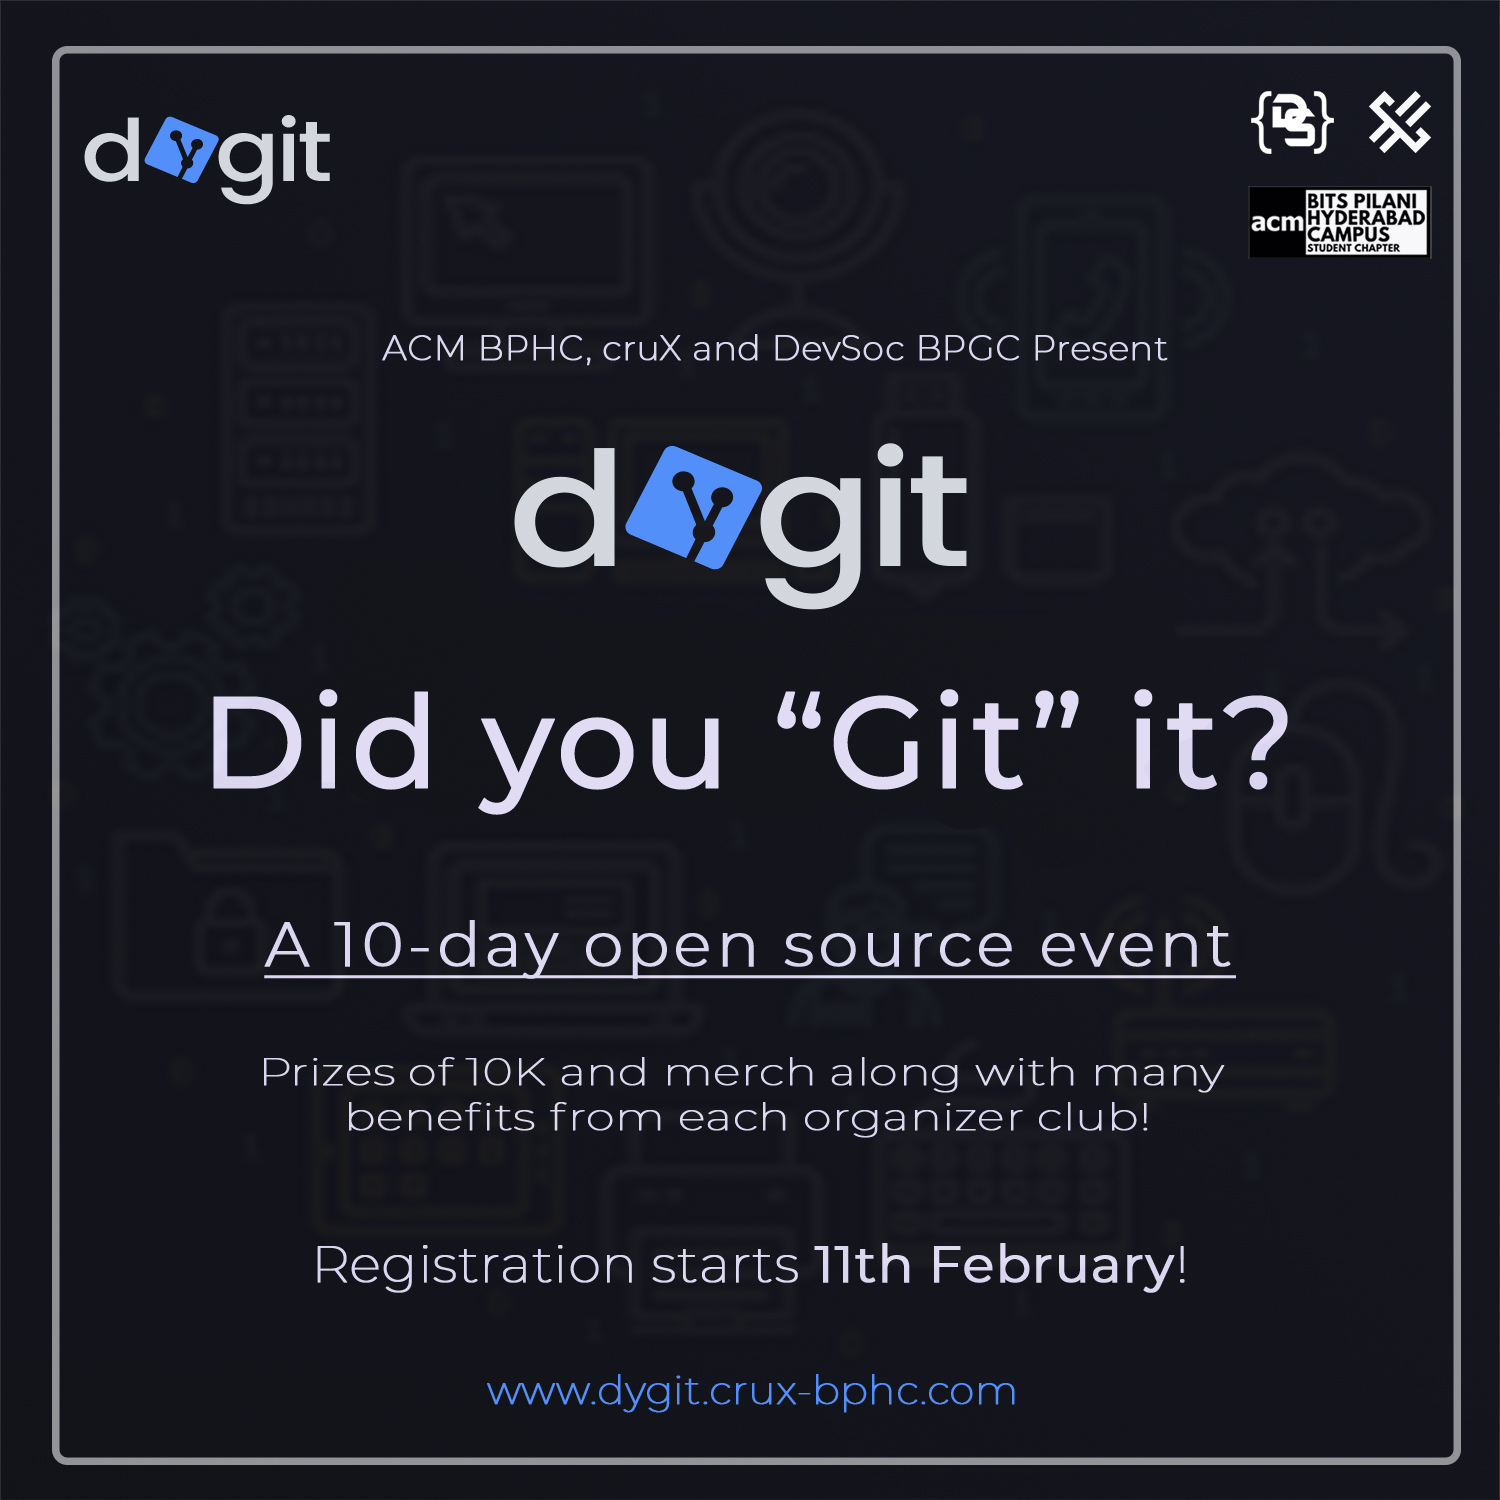
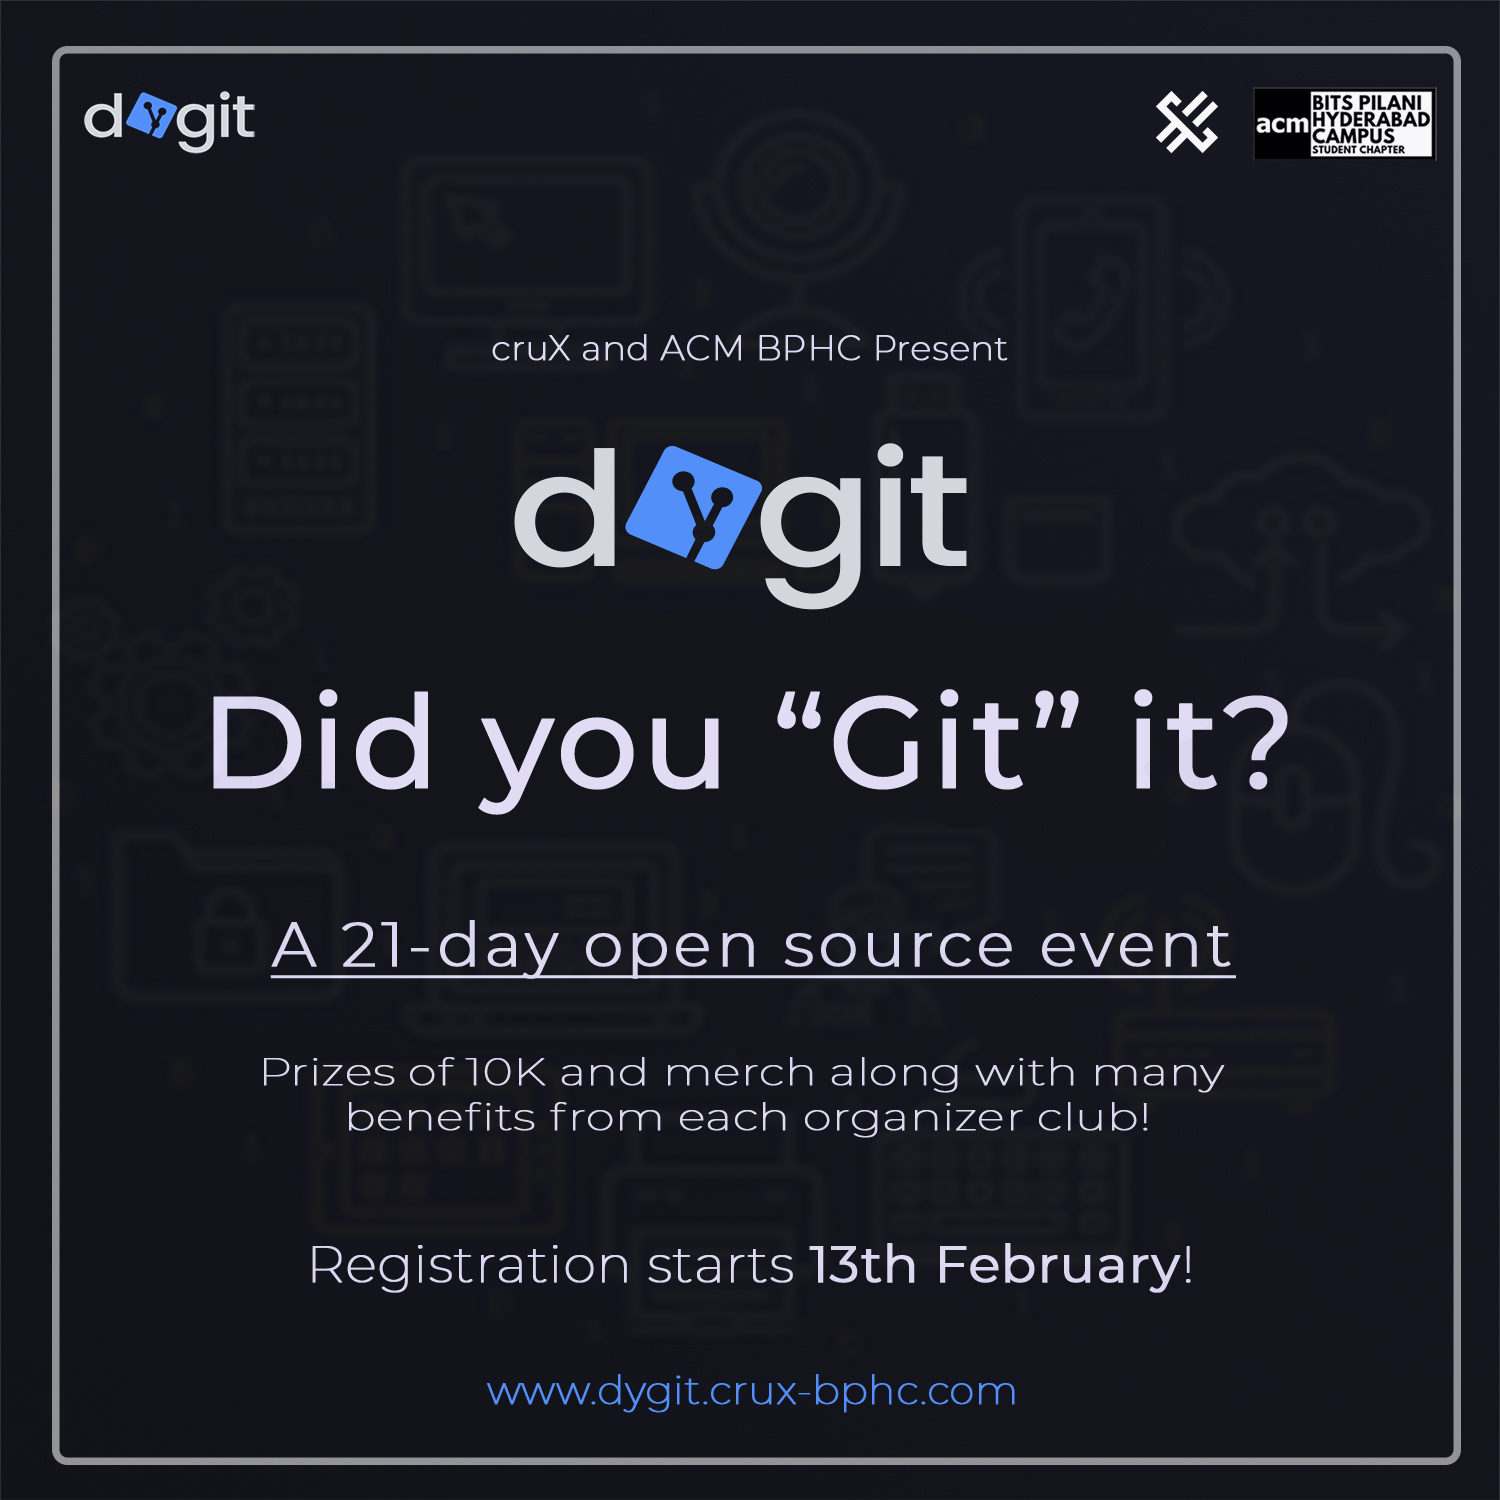
updated schedule, projects and team data

diff --git a/src/pages/projects.tsx b/src/pages/projects.tsx
@@ -31,11 +31,11 @@ const ProjectsPage: React.FC<ProjectsPageProps> = ({ projects }) => {
 
 	React.useEffect(() => {
 		if (domains.length > 0) {
-			const newData = projects.filter((project, i) =>
-				domains.includes(project.domain.toLowerCase())
+			const filtered = projects.filter((p) =>
+				p.domain.some((d) => domains.includes(d))
 			);
 
-			setData(newData);
+			setData(filtered);
 		} else {
 			setData(projects);
 		}
@@ -138,29 +138,29 @@ const ProjectsPage: React.FC<ProjectsPageProps> = ({ projects }) => {
 									</FilterItem>
 
 									<FilterItem
-										onClick={() => handleDomain('web development')}
-										isActive={domains.includes('web development')}
+										onClick={() => handleDomain('Web Development')}
+										isActive={domains.includes('Web Development')}
 									>
 										Web Development
 									</FilterItem>
 
 									<FilterItem
-										onClick={() => handleDomain('android development')}
-										isActive={domains.includes('android development')}
+										onClick={() => handleDomain('Android Development')}
+										isActive={domains.includes('Android Development')}
 									>
 										Android Development
 									</FilterItem>
 
 									<FilterItem
-										onClick={() => handleDomain('ios development')}
-										isActive={domains.includes('ios development')}
+										onClick={() => handleDomain('iOS Development')}
+										isActive={domains.includes('iOS Development')}
 									>
 										iOS Development
 									</FilterItem>
 
 									<FilterItem
-										onClick={() => handleDomain('machine learning')}
-										isActive={domains.includes('machine learning')}
+										onClick={() => handleDomain('Machine Learning')}
+										isActive={domains.includes('Machine Learning')}
 									>
 										Machine Learning
 									</FilterItem>

diff --git a/src/components/ProjectCard.tsx b/src/components/ProjectCard.tsx
@@ -11,10 +11,10 @@ interface ProjectCardProps {
 const ProjectCard: React.FC<ProjectCardProps> = ({ project, index }) => {
 	return (
 		<>
-			<div className="mb-10 flex flex-col border-[1px] border-gray p-6 transition-all duration-300 ease-out hover:border-white hover:shadow-md hover:shadow-white md:min-h-[540px]">
+			<div className="mb-10 flex flex-col border-[1px] border-gray p-6 transition-all duration-300 ease-out hover:border-white hover:shadow-md hover:shadow-white md:min-h-[550px]">
 				<div className="mb-20 flex items-center justify-between">
 					<p className="text-lg">
-						{(index+1).toString().length == 1 ? '0' + (index + 1): (index + 1)}
+						{(index + 1).toString().length == 1 ? '0' + (index + 1) : index + 1}
 					</p>
 					<div>
 						<Image
@@ -27,10 +27,17 @@ const ProjectCard: React.FC<ProjectCardProps> = ({ project, index }) => {
 				</div>
 				<div className="flex flex-1 flex-col justify-between">
 					<div>
-						<h5 className="mb-3 max-w-[78%] text-3xl font-medium uppercase">
-							{project.title}
-						</h5>
-						<h6 className="mb-10 uppercase text-blue">{project.domain}</h6>
+						<div className="min-h-[150px]">
+							<h5 className="mb-3 max-w-[78%] text-3xl font-medium uppercase">
+								{project.title}
+							</h5>
+							<h6 className="mb-10 uppercase text-blue">
+								{project.domain.map((domain, i) => (
+									<div key={i}>{domain}</div>
+								))}
+							</h6>
+						</div>
+
 						<p className="lh-15 mb-5 pb-5 text-sm text-gray">
 							{project.description}
 						</p>

diff --git a/src/components/Schedule/EventCard.tsx b/src/components/Schedule/EventCard.tsx
@@ -11,13 +11,13 @@ const EventCard: React.FC<EventCardProps> = ({ title, date, year }) => {
 	return (
 		<>
 			<div
-				className="relative mb-4 w-full rounded-sm bg-dark-1 px-4 py-4 
-							md:mb-0 md:border md:border-gray md:hover:border-white md:hover:shadow-md md:hover:shadow-white"
+				className="relative mb-4 w-full rounded-sm bg-dark-1 px-4  py-4 md:mb-0 
+							md:border md:border-gray md:bg-transparent md:hover:border-white md:hover:shadow-md md:hover:shadow-white"
 			>
 				<div className="absolute right-0 -top-10 md:hidden">
 					<DateBubble size="sm" date={date} year={year} />
 				</div>
-				<h1 className="mt-12 mb-3 text-[20px] md:mt-6 md:text-center">
+				<h1 className="mt-12 mb-3 text-[20px] md:mt-6 md:text-center lg:mt-3">
 					{title}
 				</h1>
 			</div>

diff --git a/src/components/WorkflowCard.tsx b/src/components/WorkflowCard.tsx
@@ -42,16 +42,18 @@ const WorkflowCard: React.FC<WorkflowCardProps> = ({
 			>
 				<div
 					className={clsx([
-						'col-span-1 row-span-2 grid place-items-center',
+						'col-span-1 row-span-2 mt-7 flex justify-center ',
 						orientation === 'right' && 'order-2',
 					])}
 				>
-					<IconComponent size={20} />
+					<IconComponent size={24} />
 				</div>
 				<div
 					className={clsx(['col-span-6', orientation === 'right' && 'order-1'])}
 				>
-					<h1 className="mt-6 mb-3 text-[20px] font-bold uppercase">{title}</h1>
+					<h1 className="mt-6 mb-3 text-[20px] font-bold uppercase text-blue">
+						{title}
+					</h1>
 					<p className="wrap mb-3 text-sm text-gray">{desc}</p>
 				</div>
 			</div>

diff --git a/src/pages/workflow.tsx b/src/pages/workflow.tsx
@@ -23,7 +23,7 @@ const WorkflowPage: NextPage<WorkflowPageProps> = ({ workflow }) => {
 				<div className="max-w-full md:max-w-5xl">
 					<h1
 						style={{ lineHeight: 1.1 }}
-						className="mb-10 text-3xl font-bold sm:text-5xl md:mb-4 md:text-[30px] lg:mb-8 lg:text-[40px] xl:text-[60px]"
+						className="mb-10 text-center text-3xl font-bold sm:text-5xl md:mb-4 md:text-left md:text-[30px] lg:mb-8 lg:text-[40px] xl:text-[60px]"
 					>
 						How does 'Did you Git it?' work
 					</h1>

diff --git a/src/components/Schedule/ScheduleItem.tsx b/src/components/Schedule/ScheduleItem.tsx
@@ -28,7 +28,7 @@ const ScheduleItem: React.FC<ScheduleItemProps> = ({
 				<div className="z-20 order-1 hidden items-center justify-center md:flex lg:w-1/3">
 					<DateBubble date={date} year={year} />
 				</div>
-				<div className="order-1 lg:w-1/3">
+				<div className="order-1 w-full lg:w-1/3">
 					<EventCard title={title} date={date} year={year} />
 				</div>
 			</div>

diff --git a/src/pages/index.tsx b/src/pages/index.tsx
@@ -43,7 +43,7 @@ const HomePage: NextPage = ({}) => {
 					</p>
 					<p>
 						Tune into the <a href={process.env.NEXT_PUBLIC_SITE_URL}>Website</a>{' '}
-						on Feb 14th, 2022 for the event. Let's improve the development
+						on Feb 16th, 2022 for the event. Let's improve the development
 						culture together, shall we?
 					</p>
 					<div className="my-10">

diff --git a/scripts/generate-robots-txt.js b/scripts/generate-robots-txt.js
@@ -8,7 +8,5 @@ dotenv.config();
 const robotsTxt = `User-agent: *\nAllow: / \n\nSitemap: ${process.env.NEXT_PUBLIC_SITE_URL}/sitemap.xml`;
 
 (function generateRobotsTxt() {
-	console.log(path.join(__dirname, '../public/robots.txt'));
-
 	fs.writeFileSync(path.join(__dirname, '../public/robots.txt'), robotsTxt);
 })();

diff --git a/src/utils/timeCalc.ts b/src/utils/timeCalc.ts
@@ -1,5 +1,5 @@
 export const TimeCalc = () => {
-	const difference = new Date('2022-02-14').getTime() - new Date().getTime();
+	const difference = new Date('2022-02-16').getTime() - new Date().getTime();
 	let timeLeft = {};
 
 	if (difference > 0) {

diff --git a/src/types/index.ts b/src/types/index.ts
@@ -1,6 +1,6 @@
 export type Project = {
 	title: string;
-	domain: string;
+	domain: string[];
 	description: string;
 	link: string;
 	logo: string;

diff --git a/data/projects.md b/data/projects.md
@@ -2,72 +2,65 @@
 projects: [
 		{
 			title: 'SWD Nucleus BPHC Frontend',
-			domain: 'Web Development',
+			domain: ['Web Development'],
 			description: 'The current repository holds the entire codebase of frontend of SWD Portal of BITS Pilani,Hyderabad Campus.',
 			link: 'https://github.com/Ashish-AVS/SWD-BPHC-Frontend',
 			logo: '/assets/swd.png',
 		},{
 			title: 'SWD Nucleus BPHC Android App',
-			domain: 'Android Development',
+			domain: ['Android Development'],
 			description: 'The SWD app for Android, rebuilt with a new design and using the best practices in Android Development. Built entirely in Koltin.',
 			link: 'https://github.com/aryanarora180/SWD_BPHC',
 			logo: '/assets/swd.png',
 		},
 		{
 			title: 'SmartCampus Mobile App',
-			domain: 'Android Development',
+			domain: ['Android Development'],
 			description: 'A system to enable cashless payment throughout campus in any case and scenario, be in via mess balance or UPI payments for BPHC.',
 			link: 'https://github.com/smart-campus-team/smartcampus-mobile',
 			logo: '/assets/smartcampus.png',
 		},
 		{
 			title: 'Chrono Factorem',
-			domain: 'Web Development',
+			domain: ['Web Development'],
 			description: 'A MERN stack Web App that allows students to create draft time tables',
 			link: 'https://github.com/crux-bphc/ChronoFactorem',
 			logo: '/assets/crux.png',
 		},
 		{
 			title: 'CMS iOS',
-			domain: 'iOS Development',
+			domain: ['iOS Development'],
 			description: 'This is the iOS version on the CMS app, written in Swift. The app utilises the API endpoints provided by Moodle from the server hosted on the CMS Website.',
 			link: 'https://github.com/crux-bphc/CMS-iOS',
 			logo: '/assets/crux.png',
 		},
 		{
 			title: 'CMS Android',
-			domain: 'Android Development',
+			domain: ['Android Development'],
 			description: 'This is the Android version of the CMS BPHC app. The app uses standard Moodle endpoints from the server hosted at the CMS website.',
 			link: 'https://github.com/crux-bphc/CMS-Android',
 			logo: '/assets/crux.png',
 		},
 		{
 			title: 'Course Reviews',
-			domain: 'Web Development',
+			domain: ['Web Development'],
 			description: 'The application is a simple Express.JS app. Database is SQLite3. Auth is provided by Passport.js. To review and rate courses provided by BPHC.',
 			link: 'https://github.com/crux-bphc/course-reviews',
 			logo: '/assets/crux.png',
 		},
 		{
 			title: 'Fest Manager',
-			domain: 'Web Development',
+			domain: ['Web Development'],
 			description: 'Fest Manager is a Single Page Express Application that can be used to easily deploy websites for college fests.',
 			link: 'https://github.com/crux-bphc/fest-manager',
 			logo: '/assets/crux.png',
 		},
 		{
 			title: 'Batchsnap Sorter',
-			domain: 'Machine Learning',
-			description: 'Identifies unique faces from corpus of photos and allows a person to retrieve all images containing their face. Clustering of images is done on server side by using facial feature embeddings, and the client facing portal is made in React.js.',
+			domain: ['Machine Learning', 'Web Development'],
+			description: 'Identifies unique faces from corpus of photos and allows a person to retrieve all images containing their face. Clustering of images is done on server side by using facial feature embeddings, and client facing portal is made in React.js.',
 			link: 'https://github.com/crux-bphc/batchsnap-sorter',
 			logo: '/assets/crux.png',
-		},
-		{
-			title: 'AERO Project Website',
-			domain: 'Web Development',
-			description: 'Website for the AeroD club porject',
-			link: 'https://github.com/God-SammY-lord/AERO-PROJECT-WEBSITE.git',
-			logo: '/assets/aero-d.png',
-		},
+		}
 	]
 ---

diff --git a/data/team.md b/data/team.md
@@ -12,12 +12,6 @@ teamData : {
 				facebook: 'https://www.facebook.com/sidharth.anand.1029',
 			},
 			{
-				coverPic: '/assets/profile_pics/adithya.jpg',
-				name: 'Adithya',
-				subtitle: 'DevSoc',
-				github: 'https://github.com/Adithya2907',
-			},
-			{
 				coverPic: '/assets/profile_pics/medini.jpg',
 				name: 'Medini N B',
 				subtitle: 'ACM BPHC',
@@ -53,12 +47,6 @@ teamData : {
 				twitter: 'https://twitter.com/ashishavs7'
 			},
 			{
-				coverPic: '/assets/profile_pics/adithya.jpg',
-				name: 'Adithya',
-				subtitle: 'DevSoc',
-				github: 'https://github.com/Adithya2907',
-			},
-			{
 				coverPic: '/assets/profile_pics/aryan-arora.jpg',
 				name: 'Aryan Arora',
 				subtitle: 'cruX, SWD',
@@ -85,12 +73,6 @@ teamData : {
 				github: 'https://github.com/sreekarnv',
 				facebook: 'https://www.facebook.com/NV.sreekar/',
 				linkedin: 'https://www.linkedin.com/in/sreekar-venkata-nutulapati-63672120a/'
-			},
-			{
-				coverPic: '/assets/profile_pics/avinab-neogy.jpg',
-				name: 'Avinab Neogy',
-				subtitle: 'AeroD',
-				github: 'https://github.com/aomine2023',
 			},
 			{
 				coverPic: '/assets/profile_pics/aryan-chaubal.jpg',
@@ -141,24 +123,10 @@ teamData : {
 				twitter: 'https://twitter.com/ashishavs7'
 			},
 			{
-				coverPic: '/assets/profile_pics/ishan-neogi.jpeg',
-				name: 'Ishan Neogi',
-				subtitle: 'AeroD',
-				github: 'https://github.com/IshanNeogi',
-				linkedin: 'https://www.linkedin.com/in/ishan-neogi-5794281a9/',
-			},
-			{
 				coverPic: '/assets/profile_pics/aryan-arora.jpg',
 				name: 'Aryan Arora',
 				subtitle: 'cruX, SWD',
 				github: 'https://github.com/aryanarora180',
-			},
-			{
-				coverPic: '/assets/profile_pics/sahil-sudesh.jpg',
-				name: 'Sahil Sudesh',
-				subtitle: 'AeroD',
-				github: 'https://github.com/God-SammY-lord',
-				linkedin: 'https://www.linkedin.com/in/sahil-sudesh-79308b200?lipi=urn%3Ali%3Apage%3Ad_flagship3_profile_view_base_contact_details%3BytQR6QtbTei1DP8FrcuUVA%3D%3D',
 			},
 			{
 				coverPic: '/assets/profile_pics/tushar-chenan.jpg',
@@ -192,12 +160,6 @@ teamData : {
 				name: 'Animish Prateek',
 				subtitle: 'ACM BPHC',
 				github: 'https://github.com/Animish01',
-			},
-			{
-				coverPic: '/assets/profile_pics/rishil-shah.jpeg',
-				name: 'Rishil Shah',
-				subtitle: 'DevSoc',
-				github: 'https://github.com/bacSlash',
 			},
 		]
 	},
